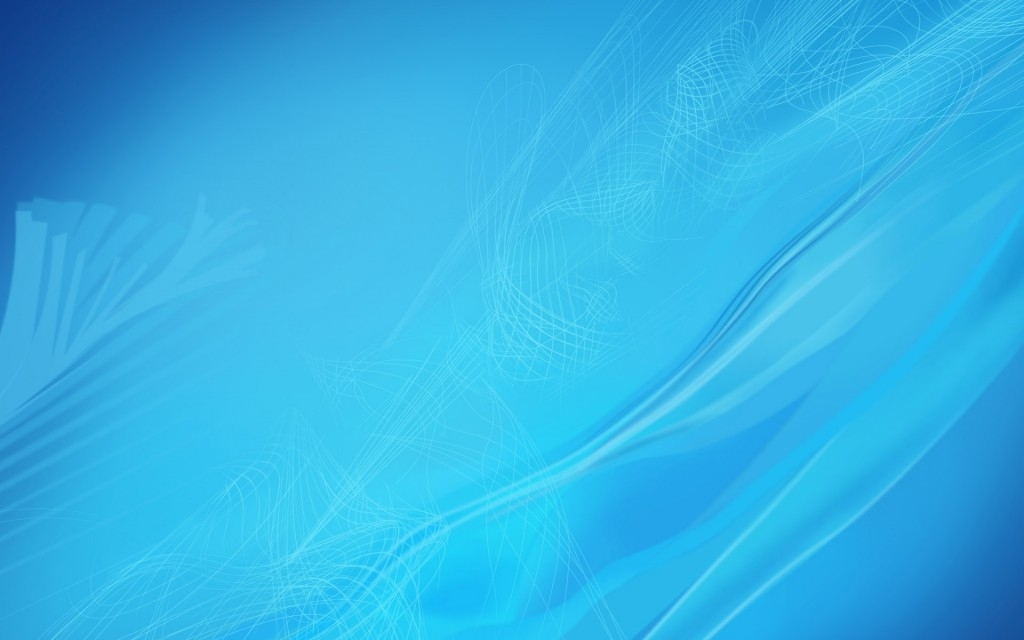
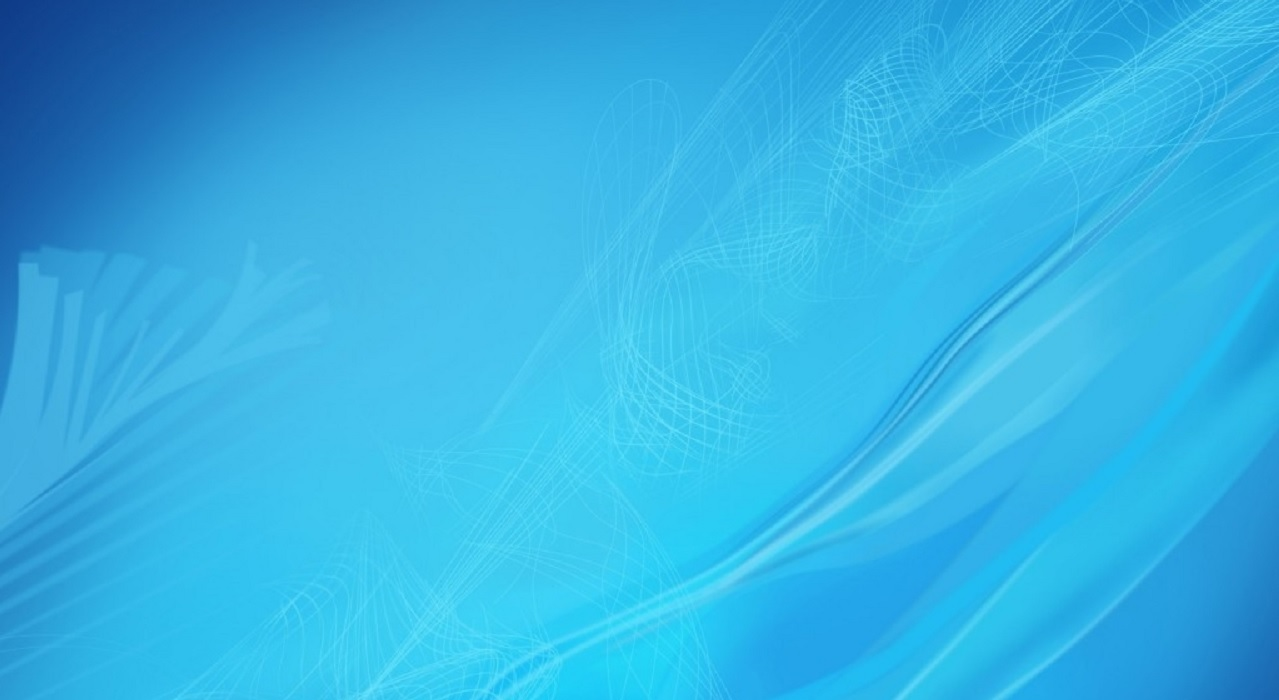
apars 06/03/2018 - Background improvements.

diff --git a/assets/css/style.css b/assets/css/style.css
@@ -96,3 +96,41 @@ footer p {
     margin-left: auto;
     margin-right: auto;
 }
+
+.div-left{
+    float:left;
+    padding-left:10px;
+}
+.div-right{
+    float:right;
+    padding-right:10px;
+}
+
+.introtext{
+    text-align: center; 
+    font-size: 4.5vh; 
+    color: white;
+    text-shadow: 2px 2px 4px #000000;
+}
+
+body, html {
+    height: 100%;
+    margin: 0;
+}
+.body{
+  /* The image used */
+    background-image: url("../images/general/mainback1.jpg");
+
+    /* Full height */
+    height: 100%; 
+
+    /* Center and scale the image nicely */
+    background-position: center;
+    background-repeat: no-repeat;
+    background-size: cover;
+}
+
+.footer {
+  opacity: 1;  
+  background-color: rgba(0,0,0,0.6); 
+}

diff --git a/assets/css/rating.css b/assets/css/rating.css
@@ -20,10 +20,10 @@ ul {
 ul li {
     list-style-type: none;
     display: inline-block;
-    margin: 50px;
+    margin: 3vw;
     color: white;
-    text-shadow: 15px 15px 17px grey;
-    font-size: 25px !important;
+    text-shadow: 5px 5px 7px grey;
+    font-size: 1.75vh !important;
 }
 
 ul li:hover{

diff --git a/system/application/views/templates/survey/footer.php b/system/application/views/templates/survey/footer.php
@@ -1,19 +1,25 @@
-		<footer>
-      <div class="container">
-        <p class="text-muted">
-            <?php if($active_surveys != ""): ?>
-              <?php foreach($active_surveys as $survey): ?>
-                <?php echo getFooterContent($survey->slug); ?>
-              <?php endforeach; ?>
-            <?php endif; ?>
-        </p>
-      </div>
-		</footer>
-		<!--<script type="text/javascript" src="<?php echo base_url(); ?>assets/js/custom.js"></script>-->
-                <script type="text/javascript" src="<?php echo base_url().$this->config->item('jQuery_js'); ?>"></script>
-                <script type="text/javascript" src="<?php echo base_url().$this->config->item('bootstrap_js'); ?>"></script>
-                <script type="text/javascript" src="<?php echo base_url().$this->config->item('rating_js'); ?>"></script>
-                <script type="text/javascript" src="<?php echo base_url().$this->config->item('survey_js'); ?>"></script>
-                
-	</body>
+        <footer>
+            <div class="container" >
+                <p class="text-muted">
+                <div class="div-right" style="display: inline-block;"><strong style="color: white">Follow Us </strong>
+                    <a href="#" class="fab fa-facebook"></a>
+                    <a href="#" class="fab fa-twitter"></a>
+                    <a href="#" class="fab fa-google"></a>
+                    <a href="#" class="fab fa-instagram"></a>
+            <!--<strong>Posted by: <?php echo $this->config->item('posted_by'); ?> Contact information: <a href="mailto:<?php echo $this->config->item('posted_email'); ?>"><?php echo $this->config->item('posted_email'); ?></a>.</strong>-->
+                </div>
+                <?php if($active_surveys != ""): ?>
+                  <?php foreach($active_surveys as $survey): ?>
+                    <?php echo getFooterContent($survey->slug); ?>
+                  <?php endforeach; ?>
+                <?php endif; ?>
+                <div class="div-left" style="display: inline-block;"><strong style="color: white">Copyright (C) 2018 <?php echo $this->config->item('company_name'); ?> All rights reserved.</strong></div>
+            </div>
+        </footer>
+        <!--<script type="text/javascript" src="<?php echo base_url(); ?>assets/js/custom.js"></script>-->
+        <script type="text/javascript" src="<?php echo base_url().$this->config->item('jQuery_js'); ?>"></script>
+        <script type="text/javascript" src="<?php echo base_url().$this->config->item('bootstrap_js'); ?>"></script>
+        <script type="text/javascript" src="<?php echo base_url().$this->config->item('rating_js'); ?>"></script>
+        <script type="text/javascript" src="<?php echo base_url().$this->config->item('survey_js'); ?>"></script>
+    </body>
 </html>

diff --git a/system/application/views/templates/survey/intro.php b/system/application/views/templates/survey/intro.php
@@ -1,14 +1,14 @@
-  <div class="container-fluid imageloc">
+<div class="container imageloc">
     <div class="row">
       <div class="col-md-12">
-        <img class="d-block img-responsive w-100 imagecenter" src="<?php echo base_url().$this->config->item('main_back'); ?>" alt="Main_Back">
+        <!--<img class="d-block img-responsive imagecenter w-100" src="<?php echo base_url().$this->config->item('main_back'); ?>" alt="Main_Back">-->
         <?php if(isset($active_surveys) && $active_surveys != null): ?>
-          <div class="floatdiv" style="width: 95%;left: 2.5%">
-          <h2 style="text-align: center; color: white;text-shadow: 2px 2px 4px #000000;"><br>The results of this survey will teach us insights on how we can serve you better. <br><br>
+          <div class="floatdiv" style="width: 95%;left: 2.5%; transform: translateY(5%)">
+          <h2 class="introtext">The results of this survey will teach us insights on how we can serve you better. <br><br>
 Yes, we realize how precious your time is. That's why we made sure this survey will
 only take 30 seconds or less.<br><br>
 (really, we timed it!)<br><br>
-Rate us: 1 BAD to 5 BEST<br><br><br></h2>
+Rate us: 1 BAD to 5 BEST<br><br></h2>
           <div style="width: 30%;margin: 0 auto;">
             <?php foreach($active_surveys as $survey): ?>
 <!--              <a href="<?php echo base_url() . "questions/" . $survey->slug; ?>" class="list-group-item" style="text-align: center">

diff --git a/system/application/config/custom_config.php b/system/application/config/custom_config.php
@@ -5,16 +5,19 @@
  * To change this template file, choose Tools | Templates
  * and open the template in the editor.
  */
-
-$config["carousel_fit"]                     = "width:100%;height:832px";
+$config['company_name']                     = 'Full-Stack Developers International Inc.';
+$config['posted_by']                        = 'Richard Feynman';
+$config['posted_email']                     = 'rfeynman@fullstackint.com';
+$config["carousel_fit"]                     = "height:88vh";
 
 //Bootstrap
 $config['station_name']                     = 'station1';
 $config['img_path']                         = 'assets/images/general/';
 $config['main_back']                        = 'assets/images/general/mainback1.jpg';
 $config['button_back']                      = 'assets/images/general/submit.jpg';
-$config['csv_path']                         = 'assets/downloads/file.csv';
-$config['fav_icon']                         = 'assets/images/general/sample2.jpg';
+$config['exp_path']                         = 'assets/downloads/data_export_';
+$config['exp_ext']                          = '.csv';
+$config['fav_icon']                         = 'assets/images/general/fav_icon.png';
 
 $config['bootflat_css']                     = 'assets/css/bootflat.min.css';
 $config['style_css']                        = 'assets/css/style.css';

diff --git a/system/application/models/survey_model.php b/system/application/models/survey_model.php
@@ -94,7 +94,6 @@ $query = $this->db->query('SELECT '
         . $surveyPrefix.'_response_answers.response_id AS survey_session, '
         . $surveyPrefix.'_response_answers.created AS survey_response_date, '
         . $surveyPrefix.'_questions.question_text AS survey_question, '
-        . $surveyPrefix.'_questions.helper_text AS survey_helper_text, '
         . $surveyPrefix.'_options.option_text AS survey_response_value, '
         . 'survey_users.email AS survey_target '
         . 'FROM '.$surveyPrefix.'_response_answers '

diff --git a/system/application/controllers/survey.php b/system/application/controllers/survey.php
@@ -89,8 +89,9 @@ class Survey extends CI_Controller {
     $this->load->dbutil();
     $this->load->helper('file');
     //var_dump($result);
+    $outfile = $this->config->item("exp_path").date('m-d-Y_hia').$this->config->item("exp_ext");
     $csvdata = $this->dbutil->csv_from_result($result);
-        if ( ! write_file($this->config->item("csv_path"), $csvdata))
+        if ( ! write_file($outfile, $csvdata))
         {
             $data["export_result"] = "Export failed.";
         }

diff --git a/system/application/helpers/custom_helper.php b/system/application/helpers/custom_helper.php
@@ -14,7 +14,7 @@ if ( ! function_exists('getNavBrand'))
                   </a>";
         }
         elseif(!empty($logo_text)) {
-          return "<a class='navbar-brand' href=" . base_url() . $url . ">"
+          return "<a class='navbar-brand' style='color: white;' href=" . base_url() . $url . ">"
                    . $logo_text . 
                   "</a>";
 //            return "<a class='navbar-brand'>"

diff --git a/system/application/views/templates/survey/header.php b/system/application/views/templates/survey/header.php
@@ -15,4 +15,5 @@
     <link rel="icon" href="<?php echo base_url().$this->config->item('fav_icon'); ?>"/>
     <script type="text/javascript"> var base_url = "<?php echo base_url(); ?>";</script>
   </head>
-  <body>
+  <body class="body">
+      <!--<div class="imageback"></div>-->

diff --git a/system/application/views/templates/survey/nav.php b/system/application/views/templates/survey/nav.php
@@ -1,6 +1,6 @@
 <div class="navbar navbar-inverse navbar-static-top" role="navigation">
   <div class="container">
-    <div class="navbar-header">
+      <div class="navbar-header">
       <?php echo getNavBrand(); ?>
     </div>
   </div>
